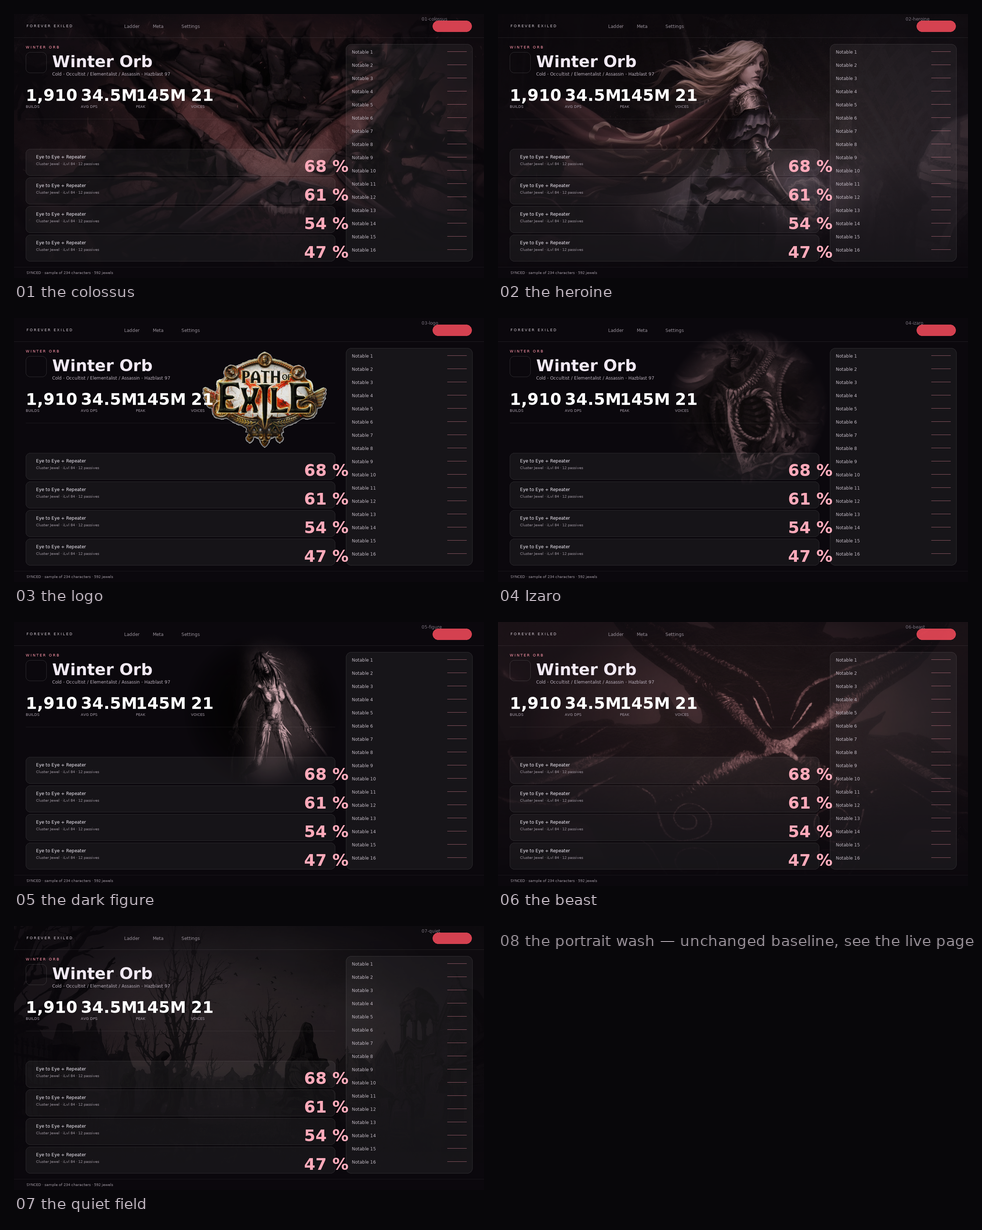
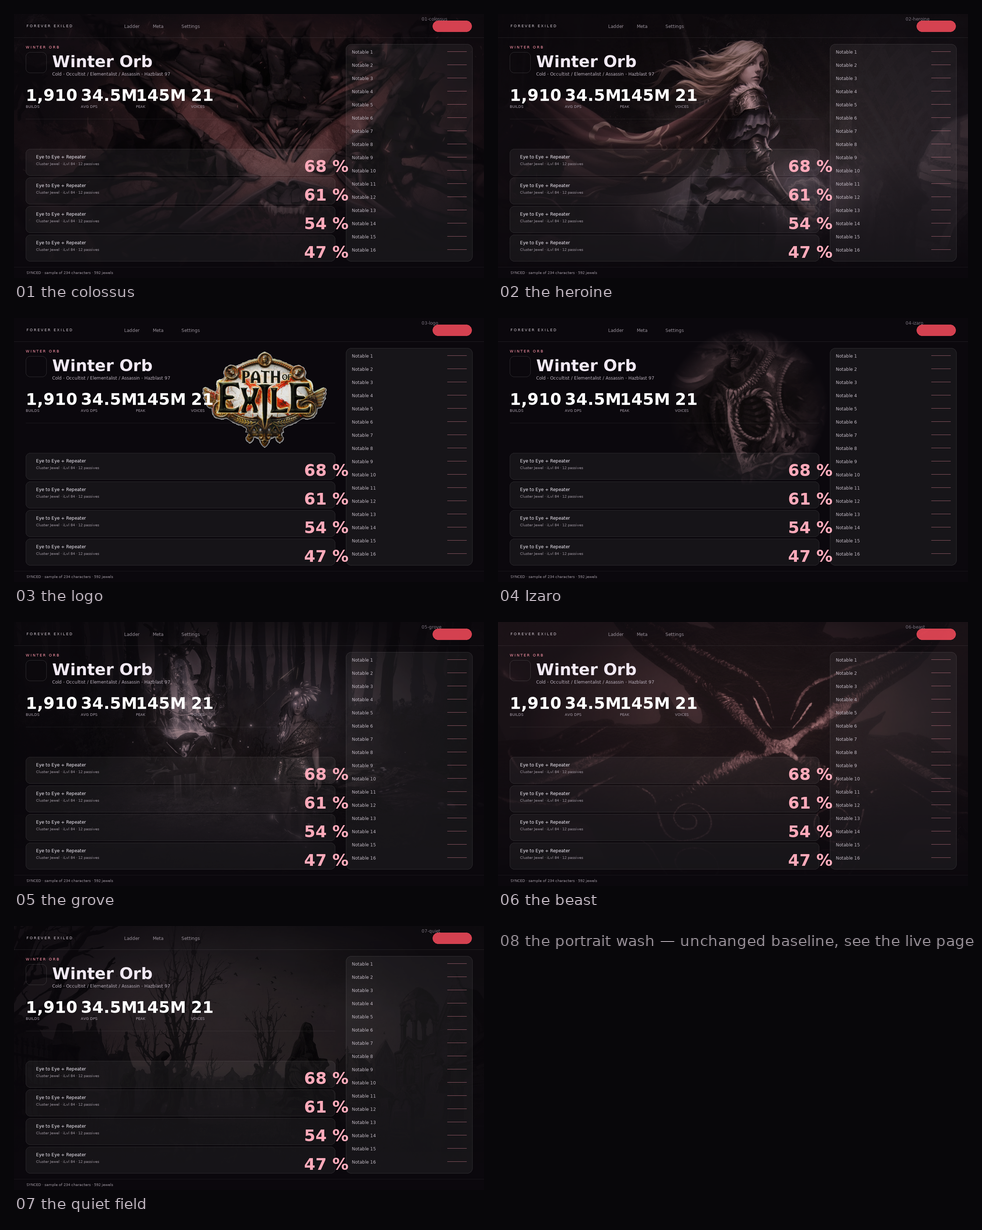
Study 05: the Sacred Grove plate the user supplied
Replaces the near-black character plate with the grove scene: Oshabi,
the shrine burning blue in its ring of roots, spores in the clearing.

It arrives at 1920x1080, so it is the one picture in the study that is
not recut — 20 px off the right edge and a straight downscale to 1440.
That is also why it frames well: the shrine lands at x 490 and Oshabi at
x 760, both inside the open band, and the stats row stops short of them.

Uncropped, desaturated .86, tint .26 — the moss goes with the green.

Changed region(s): [[0.1527, 0.5252, 0.3971, 0.6488], [0.0916, 0.7106, 0.1527, 0.7415]]

diff --git a/preview/designs/backdrops.js b/preview/designs/backdrops.js
@@ -58,10 +58,10 @@
       tags: ['Izaro', 'vignette', 'grayscale'],
     },
     {
-      id: 'bg-art-figure', group: 'Actual art', name: 'The dark figure', tag: 'character plate', kind: 'photo',
-      cls: 'is-patch is-figure', file: 'patch_figure.jpg',
-      note: 'A near-black character plate, mirrored so the figure turns into the layout, lifted until she reads and then vignetted so the ground just falls away into the field. The quietest of the patches.',
-      tags: ['silhouette', 'lifted', 'vignette'],
+      id: 'bg-art-grove', group: 'Actual art', name: 'The grove', tag: 'Sacred Grove', kind: 'photo',
+      cls: 'is-bleed is-grove', file: 'bleed_grove.jpg',
+      note: 'Oshabi in the Sacred Grove at night: the shrine burning blue in its ring of roots, her eyes lit, spores drifting through the clearing. Used as it came — the scene is already 16:9, so it is the one picture here that has not been recut at all, only desaturated and tinted. The shrine and the figure both fall inside the open band, which is why the composition survives the UI.',
+      tags: ['Sacred Grove', 'uncropped', 'night'],
     },
     {
       id: 'bg-art-beast', group: 'Actual art', name: 'The beast', tag: 'key art', kind: 'photo',

diff --git a/preview/designs/backdrops.css b/preview/designs/backdrops.css
@@ -76,7 +76,7 @@
 .m-atrium .a-photo.is-quiet img { filter: grayscale(.88) contrast(1.02) brightness(.62) saturate(.8); }
 .m-atrium .a-photo.is-quiet i { opacity: .2; }
 
-/* 04 · 05 — portraits, vignetted so they have no edge to betray them */
+/* 04 — a portrait, vignetted so it has no edge to betray it */
 .m-atrium .a-photo.is-patch img {
   inset: 28px auto auto 458px; width: 440px; height: 428px;
   object-fit: cover; object-position: 50% 26%;
@@ -88,8 +88,8 @@
   -webkit-mask-image: radial-gradient(circle at 50% 42%, #000 26%, rgba(0, 0, 0, .66) 58%, rgba(0, 0, 0, 0) 84%);
   mask-image: radial-gradient(circle at 50% 42%, #000 26%, rgba(0, 0, 0, .66) 58%, rgba(0, 0, 0, 0) 84%);
 }
-.m-atrium .a-photo.is-figure img { filter: grayscale(1) contrast(1.15) brightness(1.3) saturate(.85); }
-.m-atrium .a-photo.is-figure i { opacity: .26; }
+.m-atrium .a-photo.is-grove img { filter: grayscale(.86) saturate(.9) contrast(1.04) brightness(.95); }
+.m-atrium .a-photo.is-grove i { opacity: .26; }
 
 /* 03 — the wordmark, unfiltered, standing in the open band */
 .m-atrium .a-photo.is-logo img {

diff --git a/preview/README.md b/preview/README.md
@@ -144,14 +144,14 @@ the whole frame and the subject is strong exactly where nothing is written.
 | 02 | The heroine | bleed | a Path of Exile 2 loading screen, cropped to a bust |
 | 03 | The logo | placed | the real wordmark, checkerboard keyed to alpha, 340 px, unfiltered |
 | 04 | Izaro | patch | the painted Emperor, vignetted to a portrait, pushed to full grey (the painting is green) |
-| 05 | The dark figure | patch | a near-black character plate, mirrored, lifted until she reads |
+| 05 | The grove | bleed | Oshabi and the Sacred Grove shrine, as supplied — barely trimmed, never recut |
 | 06 | The beast | bleed | key art around the horns, nearly monochrome, heaviest tint |
 | 07 | The quiet field | bleed | the cemetery at dusk, low brightness — the one to ship |
 | 08 | Portrait wash | — | the baseline that ships today |
 
-`assets/splash/` holds six files, 700 KB: four `bleed_*.jpg` at 1440 × 810 (16:9, subject parked at
-≈ 0.52 / 0.40), two `patch_*.jpg` at 720 × 790 (portrait, subject centred), and `logo_real.png` with
-real alpha. The wordmark's checkerboard background was keyed out with a border flood fill, then the
+`assets/splash/` holds six files, 700 KB: five `bleed_*.jpg` at 1440 × 810 (16:9, subject parked in
+the open band — the grove is the one that arrives already 16:9 and is only trimmed), one
+`patch_izaro.jpg` at 720 × 790 (portrait, subject centred), and `logo_real.png` with real alpha. The wordmark's checkerboard background was keyed out with a border flood fill, then the
 alpha edge eroded a pixel. The art is Grinding Gear Games' and the Izaro painting is fan work; it is
 here as a proposal, in the same spirit as the ascendancy portraits the gallery already ships, and
 none of it should ship without GGG's blessing.
